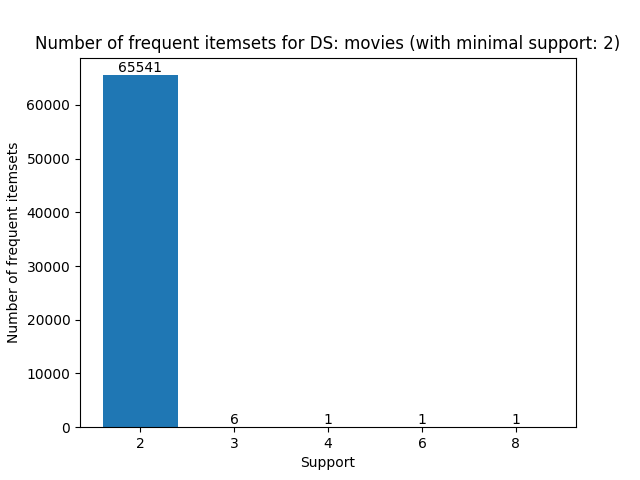
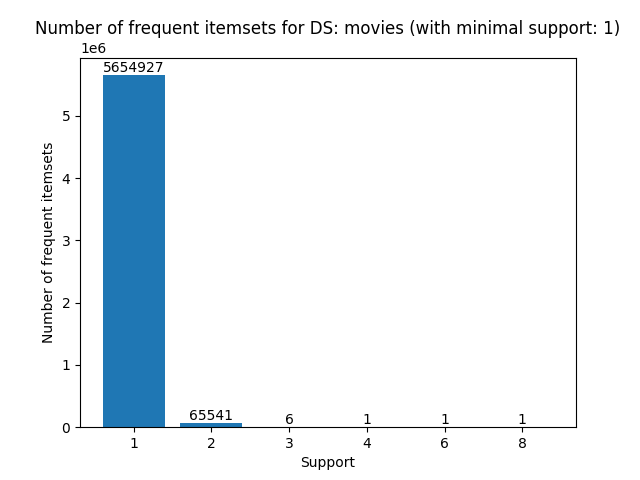
Update README.md, start tuning minSupport for experimental purpose

diff --git a/experiments_stage2/main.py b/experiments_stage2/main.py
@@ -4,10 +4,10 @@ from time_measure import save_result_to_csv
 
 def main():
     dataset_paths = [['ksiazki.csv', 1],
-                     ['movies.csv', 2],
+                     ['movies.csv', 1],
                      ['muzyka.csv', 24],
                      ['politics.csv', 1],
-                     ['cinema.csv', 4]]
+                     ['cinema.csv', 2]]
 
     for p in dataset_paths:
         rows = measure_time("../dataset/" + p[0], p[1])

diff --git a/README.md b/README.md
@@ -11,7 +11,29 @@ MED
   |--dataset
   |--declat
   |--experiments
+  |--experiments_stage2
   |--plotting
   |--results
-     |-- time
+     |--time
+        |--plots
+  |--test
 ```
+
+### 2.1 dataset
+Folder zawiera przygotowane zbiory danych w postaci plików .csv. 
+Dodatkowo znajduje się tam skrypt pozwalajacy na stworzenie zbiorów.
+
+### 2.2 declat
+Znajduje się tutaj implementacja obu algorytmów DECLAT. declat.py oraz readDataset.py
+są podstawową wersją naszego algorytmu, natomiast bit_declat.py oraz readBitDataset.py 
+zawierają implementację z użyciem bitarrays w zakresie transakcji oraz diffsetów.
+
+### 2.3 experiments oraz experiments_stage2
+Foldery zawierające skrypty służące do przeprowadzenia eksperymentów obu algorytmów
+
+### 2.4 ploting
+Zawarta jest tutaj implementacja funkcji służących do wizualizacji otrzymanych wyników.
+Dane mogą być pokzane za pomocą kraty algebraicznej tagów, analizy ilości zbiorów częstych 
+o określonym wsparciu. Dodatkowo generujemy wykres czasu działania algorytmu w zależności
+od minimalnego wsparcia dla zbiorów częstych.
+
